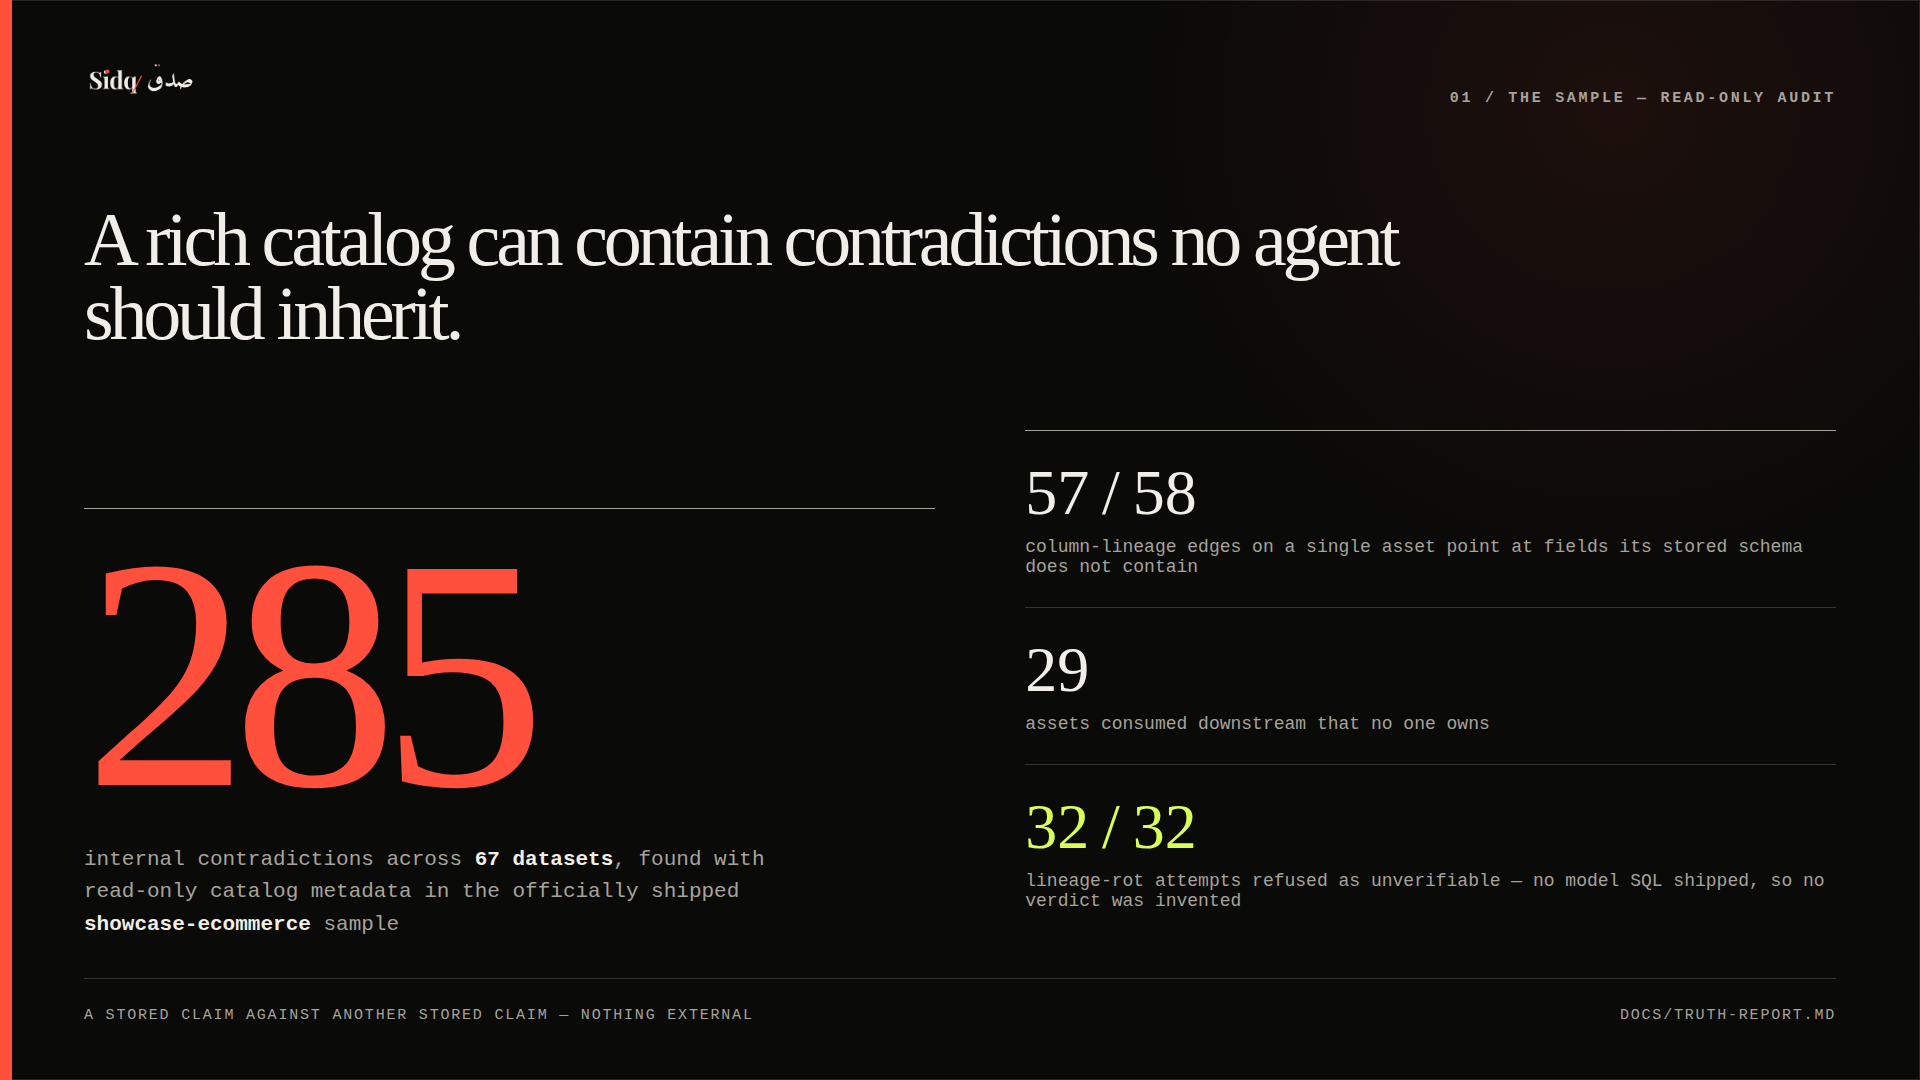
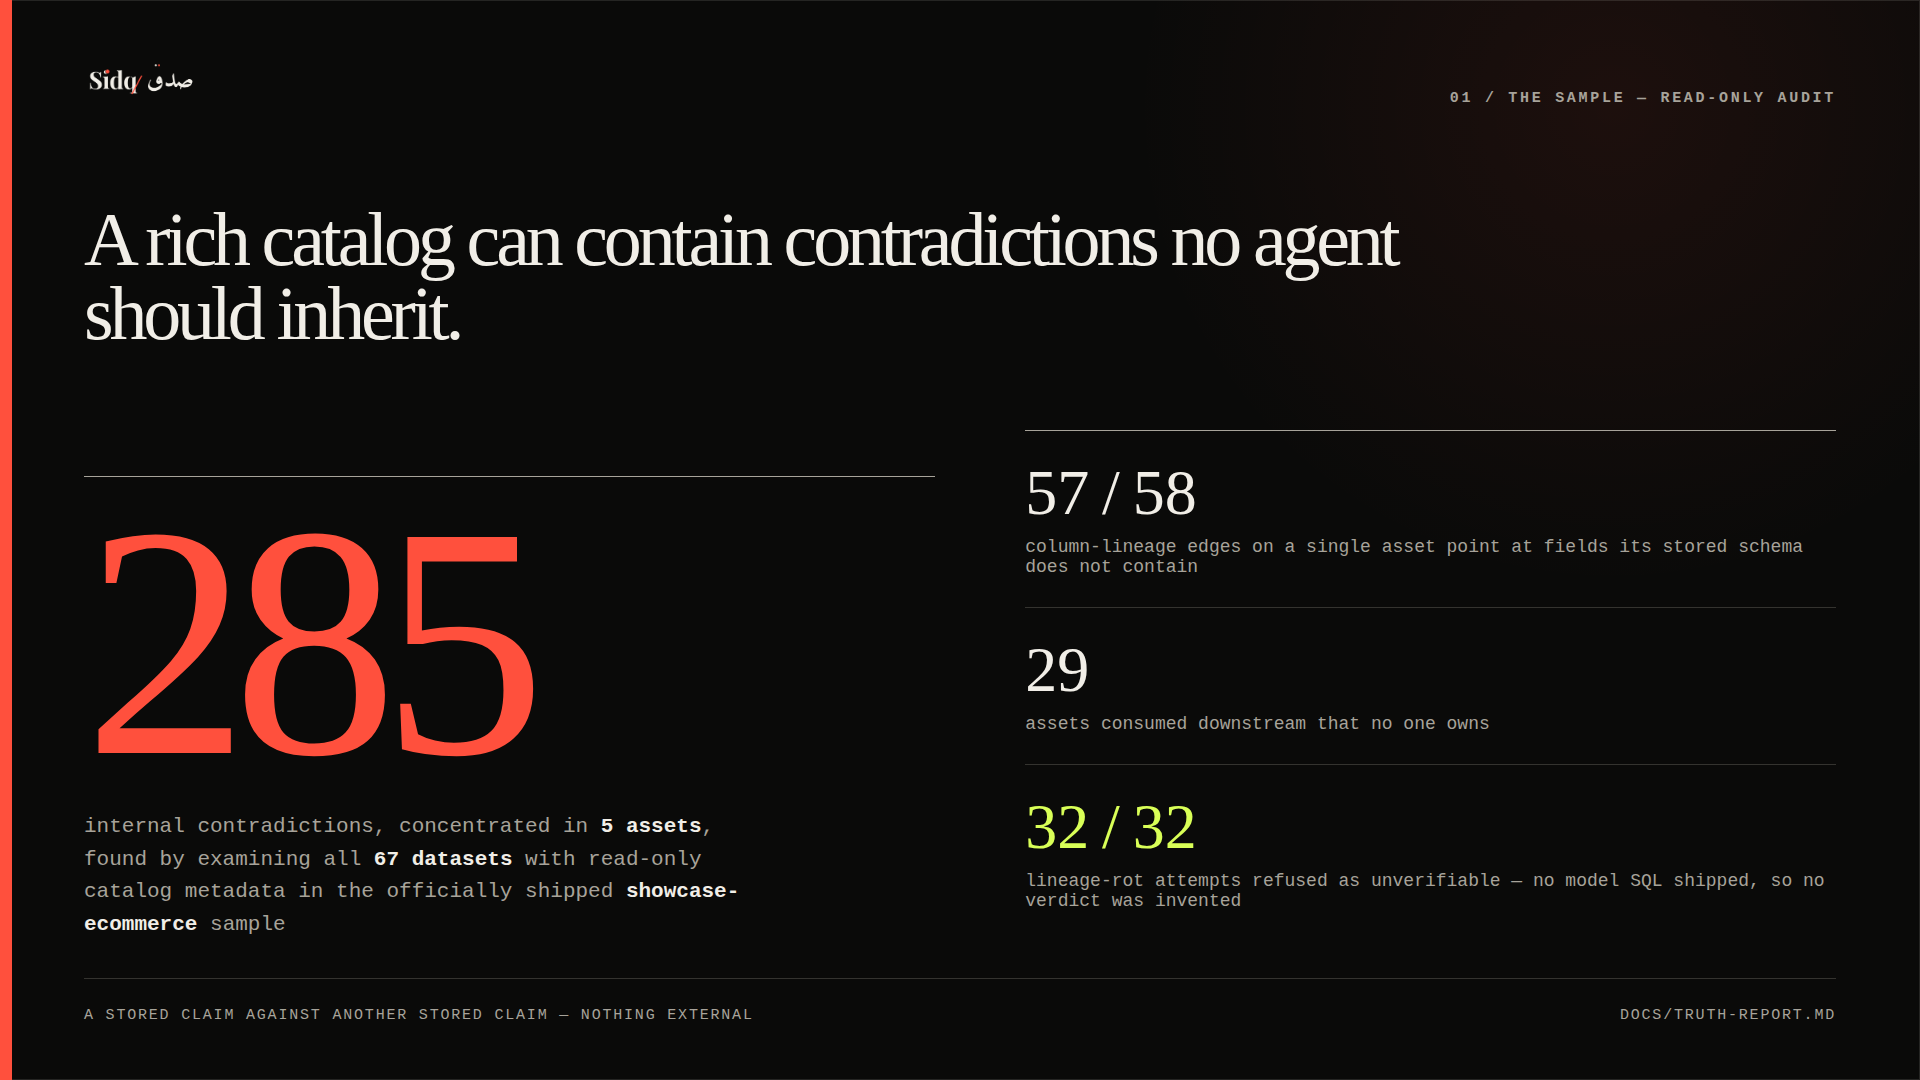
stop the gallery board from saying what the README is forbidden to say
A guard has banned "285 contradictions across 67 datasets" from the README
since the day the phrasing was caught: 67 is the number of datasets examined,
not the number affected, and a reader hears "spread over 67" when the finding
is concentrated in five assets.

The submission gallery said it anyway. Those boards are HTML rendered to PNG
and shown to the same judges, and no check had ever read them, so the sentence
the README could not print was published in a picture instead.

Extending the guard to the boards was not enough on its own. The board read
`across <strong>67 datasets</strong>`, so the banned phrase never appeared
literally in the file and a substring check reported clean on the exact text
it exists to forbid. The guard strips markup before matching, and it was
verified the only way worth trusting: by reintroducing the old wording and
confirming it fails, then restoring it and confirming it passes.

The board is corrected and re-rendered. Published counts move to 1,158.

Changed region(s): [[0.0312, 0.4889, 0.2812, 0.7333], [0.0312, 0.7639, 0.4062, 0.8861]]

diff --git a/docs/gallery/src/02-the-sample.html b/docs/gallery/src/02-the-sample.html
@@ -17,8 +17,9 @@
       <div style="border-top:1px solid var(--dim);padding-top:30px">
         <div style="font-family:var(--display);font-size:330px;line-height:.82;letter-spacing:-.05em;color:var(--signal)">285</div>
         <p style="margin-top:34px;color:var(--dim);font-size:21px;line-height:1.55;max-width:700px">
-          internal contradictions across <strong style="color:var(--paper)">67 datasets</strong>, found with read-only
-          catalog metadata in the officially shipped <strong style="color:var(--paper)">showcase-ecommerce</strong> sample
+          internal contradictions, concentrated in <strong style="color:var(--paper)">5 assets</strong>, found by
+          examining all <strong style="color:var(--paper)">67 datasets</strong> with read-only catalog metadata in the
+          officially shipped <strong style="color:var(--paper)">showcase-ecommerce</strong> sample
         </p>
       </div>
       <div style="display:grid;gap:0;border-top:1px solid var(--dim)">

diff --git a/tests/test_published_claims.py b/tests/test_published_claims.py
@@ -68,6 +68,48 @@ def test_the_headline_contradiction_count_matches_the_evidence() -> None:
     assert "contradictions across 67 datasets" not in text
 
 
+def test_no_judge_facing_surface_conflates_examined_with_affected() -> None:
+    """The conflation was banned in the README, then published in a picture.
+
+    The guard above reads one file. The submission gallery is composed as HTML
+    and rendered to PNG, and those boards say the same numbers to the same
+    judges — so the phrasing the README may not use, a board may not use
+    either. This was not hypothetical: `docs/gallery/src/02-the-sample.html`
+    carried "internal contradictions across 67 datasets" while the README was
+    forbidden from saying it, and a rendered slide is invisible to any check
+    that only reads prose.
+
+    The boards are the reason this scans sources rather than images. Nothing
+    here can read a PNG; keeping the wording honest in the HTML the PNG is
+    rendered from is what keeps the rendered board honest.
+
+    Markup is stripped before matching, and that is the whole difficulty. The
+    offending board read `across <strong>67 datasets</strong>`, so the banned
+    phrase never appeared literally in the file — a substring check against raw
+    HTML reports clean on the exact text it exists to forbid. A reader sees the
+    sentence; only a reader that strips tags sees it too.
+    """
+    surfaces = [
+        *ROOT.glob("*.md"),
+        *(ROOT / "docs").glob("*.md"),
+        *(ROOT / "docs" / "gallery" / "src").glob("*.html"),
+        *(ROOT / "web").glob("*.html"),
+    ]
+    assert surfaces, "no judge-facing surfaces were found to check"
+
+    offenders = []
+    for path in surfaces:
+        raw = path.read_text(encoding="utf-8")
+        rendered = re.sub(r"<[^>]+>", "", raw) if path.suffix == ".html" else raw
+        if "contradictions across 67 datasets" in " ".join(rendered.split()):
+            offenders.append(path.relative_to(ROOT).as_posix())
+
+    assert not offenders, (
+        "67 is the number of datasets examined, not the number affected; "
+        f"these surfaces conflate the two: {offenders}"
+    )
+
+
 def test_the_unowned_asset_count_matches_the_evidence() -> None:
     entry = _summary()["unowned_consumed"]
 

diff --git a/README.md b/README.md
@@ -31,7 +31,7 @@ Every row is one command or one committed artifact. Nothing here is a screenshot
 |---|---|---|
 | **Use of DataHub** | Read → decide → write a receipt through the **official MCP server**, then a *separate process* reads it back and recomputes its own verdict. Verdicts also land in DataHub's own **Quality tab** as native assertions (platform `sidq`). | `make live-loop` · [`examples/06-native-assertion/`](examples/06-native-assertion/) |
 | **Agents as a team** | **Four workers, no coordinator, no IPC** — they divide one catalog purely through the receipts they write, survive a peer killed mid-run, and a fifth process that audited nothing reads the ledger back out of the catalog. | `make swarm-demo` · [`src/sidq/agent/swarm.py`](src/sidq/agent/swarm.py) |
-| **Technical execution** | 1,157 tests, lint, format and types in one gate; the flagship `BLOCK` re-derives **byte-identical** from committed evidence. Published numbers are guarded — a stale one fails the build. | `make check` · `make gate-demo` |
+| **Technical execution** | 1,158 tests, lint, format and types in one gate; the flagship `BLOCK` re-derives **byte-identical** from committed evidence. Published numbers are guarded — a stale one fails the build. | `make check` · `make gate-demo` |
 | **Originality** | The question is not "what is in the catalog" but "is the catalog telling the truth" — proved on DataHub's **own shipped sample**: examining all **67 datasets** found 285 internal contradictions, concentrated in **5 assets**. And against reality: the live source renames a column, the catalog does not, Sidq blocks the context. | [`docs/TRUTH-REPORT.md`](docs/TRUTH-REPORT.md) · `make demo-break` |
 | **Real-world usefulness** | A PII removal is blocked with its lineage path to a Looker dashboard. The repair agent **refuses its own obvious fix** because the engine re-proved it moves the leak instead of closing it. | [`examples/01-blocked-pii-dashboard/`](examples/01-blocked-pii-dashboard/) · `make repair-demo` |
 | **Submission quality** | A 2:56 film with real footage, a live console whose buttons run the real commands, and a read-only judge account on a live DataHub. | [the film](https://www.youtube.com/watch?v=R4GdN36Lsno) · [sidq.mlki.app](https://sidq.mlki.app) · [`docs/QA-RESULTS.md`](docs/QA-RESULTS.md) |
@@ -120,7 +120,7 @@ file on first use, so that first run needs package-index access.
 | # | Command | Needs | What it proves | Takes |
 |---|---|---|---|---|
 | 1 | `make gate-demo` | Python 3.12; package downloads on first use; no DataHub or credentials | The published `BLOCK` verdict is re-derived from the committed graph recording, byte-identical, with the same `policy_hash`. Hand-editing an artifact fails this. | ~2s after bootstrap |
-| 2 | `make check` | Python 3.12; package downloads on first use | 1157 tests, lint, format, types — 1156 passed, 1 optional integration skipped, with 84.04% branch coverage; the same gates CI runs. Runs across all cores. | ~45s after bootstrap |
+| 2 | `make check` | Python 3.12; package downloads on first use | 1158 tests, lint, format, types — 1157 passed, 1 optional integration skipped, with 84.04% branch coverage; the same gates CI runs. Runs across all cores. | ~45s after bootstrap |
 | 3 | `make live-loop` | a running DataHub ([`docs/SETUP.md`](docs/SETUP.md)) | The whole agent loop over the **official MCP server only**: read → decide → write a receipt → a *separate process* reads it back → an asset carrying no receipt returns `NOT VERIFIED`. | ~60s |
 | 4 | `make repair-demo` | the same DataHub | The repair agent proposes a fix from catalog evidence, re-runs the deterministic engine against the catalog that fix *would* create, and shows what it proved and what it refused. | ~40s |
 | 5 | `make swarm-demo` | the same DataHub | **Four agents on one catalog with no coordinator and no IPC.** They divide the work purely through the receipts they write, one is killed mid-run and its unfinished assets are never lost, and a fifth process that audited nothing reads the ledger back out of DataHub. | ~90s |

diff --git a/docs/CLAIMS-MATRIX.md b/docs/CLAIMS-MATRIX.md
@@ -18,7 +18,7 @@ and `origin/main`; deployment is not inferred from a Git commit.
 
 | Public claim | Exact scope and evidence class | Source of truth / artifact | Reproduce | Revision |
 |---|---|---|---|---|
-| The required suite collects 1157 tests: 1156 pass and 1 optional integration skips; total branch coverage is 84.04%. | Host run, Python 3.12.3; guaranteed by the test/coverage gate for this revision. The remaining skip is the unavailable local Ollama model integration. | `pyproject.toml`, `Makefile`, [`QA-RESULTS.md`](QA-RESULTS.md) | `make check`; for reasons: `.venv/bin/pytest -q -rs --no-cov` | Re-measured 2026-08-09 on the working revision; the gate re-runs it on every `make check` |
+| The required suite collects 1158 tests: 1157 pass and 1 optional integration skips; total branch coverage is 84.04%. | Host run, Python 3.12.3; guaranteed by the test/coverage gate for this revision. The remaining skip is the unavailable local Ollama model integration. | `pyproject.toml`, `Makefile`, [`QA-RESULTS.md`](QA-RESULTS.md) | `make check`; for reasons: `.venv/bin/pytest -q -rs --no-cov` | Re-measured 2026-08-09 on the working revision; the gate re-runs it on every `make check` |
[1 lines of base64/hex data omitted]
 | The example records 16 downstream consumers and one path with 8 nodes / 7 hops. | Fixture-backed column lineage through the BI field, then entity-level chart/dashboard hops. The count alone does not block. | [`verdict.json`](../examples/01-blocked-pii-dashboard/verdict.json) | `jq '.findings[] | select(.rule_id=="critical_downstream") | .evidence[0].detail | {downstream_count,paths}' examples/01-blocked-pii-dashboard/verdict.json` | Same fixture/policy revision above |
 | A written Sidq receipt can be mirrored into DataHub's own native Assertion surface through DataHub's documented GraphQL custom-assertion API, from the environment the runbook installs, with zero extra dependencies. | Live run against a DataHub OSS quickstart (GMS v1.5.0.6) on 2026-08-09: `upsertCustomAssertion` accepted Sidq's deterministic URN verbatim, `reportAssertionResult` recorded the run, and the same GraphQL query DataHub's UI issues returned one `CUSTOM` assertion, `EXTERNAL` source, platform `sidq`, `succeeded: 1`, seven `sidq.*` native results. Re-emitting returned `created=0, existing=1`, and DataHub deduplicates reports at the same `timestampMillis` (measured: two identical reports, one event, `runId` derived from the timestamp). The full CLI ran end to end from `.venv`: `sidq audit --via-mcp --budget 3 --write-receipts --write-assertions` → `receipts written 2 of 2`; a later run reported `4 left deleted`, refusing to resurrect assertions the operator had soft-deleted even though their rules fired again. The Quality tab was captured in a logged-in browser. **Not claimed:** rendering on DataHub Cloud or any other release — one OSS quickstart at one version. An earlier revision used the `acryl-datahub` SDK and could not run from this venv; the git history records that boundary and its fall. | [`examples/06-native-assertion/`](../examples/06-native-assertion/) | Live DataHub: `export DATAHUB_GMS_URL DATAHUB_GMS_TOKEN`, then `.venv/bin/python examples/06-native-assertion/mirror_assertion.py` twice and `examples/06-native-assertion/read_back.sh`, comparing structurally with the committed response | Measured 2026-08-09 on the working revision |

diff --git a/ARCHITECTURE.md b/ARCHITECTURE.md
@@ -82,7 +82,7 @@ trust.
 | **Agents that do real work** | `sidq audit` picks its own targets on a catalog it has never seen: it ranks by how much damage a lie would do, spends an explicit budget worst-first, and lets what it finds reorder what it looks at next — a contagious finding promotes the neighbour. `sidq swarm` runs independent workers that divide the same catalog with no coordinator. `sidq repair` proposes only fixes the deterministic engine re-proves against the catalog the fix *would* create, and refuses the rest with reasons. | `make converge-demo` · `make swarm-demo` · `make repair-demo` · [`examples/05`](examples/05-agent-that-stops/) |
 | **Depth of DataHub use, incl. write-back** | The entire loop runs on the official `mcp-server-datahub` and nothing else: read with `search`/`get_entities`/`list_schema_fields`/`get_lineage`, decide, write the Receipt through the official mutation tools, then **a separate process reads it back** and recomputes whether it still holds. Sidq also ships its own MCP server with exactly three read-only tools, and a Skill for the DataHub skills ecosystem. | `make live-loop` · [`docs/MCP-CONTRACT.md`](docs/MCP-CONTRACT.md) · [`skills/datahub-verify`](skills/datahub-verify/) |
 | **The catalog as shared state** | Receipts written into DataHub let a bounded audit resume where any other instance stopped — no sidecar database, no daemon, no lock. Coverage converges run over run under a budget that never changes. A recorded refusal counts as covered but authorizes nothing; the two are separate fields, not one boolean. | `make converge-demo` · [`docs/RECEIPT-SPEC.md`](docs/RECEIPT-SPEC.md#three-questions-three-fields) |
-| **Technical execution** | 1,157 tests at 84.04% branch coverage, including property tests and a hostile-catalog suite that feeds the reader malformed, misdirected, and invented-verdict payloads. The flagship verdict is byte-identical on replay. Published artifacts are generated and gate-checked, so a stale number fails the build rather than reaching a judge. | `make check` · `make gate-demo` · `make regen-check` |
+| **Technical execution** | 1,158 tests at 84.04% branch coverage, including property tests and a hostile-catalog suite that feeds the reader malformed, misdirected, and invented-verdict payloads. The flagship verdict is byte-identical on replay. Published artifacts are generated and gate-checked, so a stale number fails the build rather than reaching a judge. | `make check` · `make gate-demo` · `make regen-check` |
 | **Originality** | Six products analyse the *code* in a PR. This asks whether the *catalog* is telling the truth — and proves the question is real on the sponsor's own shipped sample rather than on an example we built to fail. No model participates in a blocking decision; advisory findings can only ever warn, and the boundary is in the output schema. | [`docs/TRUTH-REPORT.md`](docs/TRUTH-REPORT.md) · [`examples/03`](examples/03-catalog-truth-report/) |
 | **Real-world usefulness** | A merge gate and an agent guardrail from one engine. The refusal a platform team actually needs is not "this SQL is invalid" but "this change breaks a dashboard owned by another team", and that is the committed example. | [`examples/01`](examples/01-blocked-pii-dashboard/) · sealed PRs [#1](https://github.com/NexuChat/sidq/pull/1)–[#4](https://github.com/NexuChat/sidq/pull/4) |
 | **Submission quality** | Four sealed PR threads a judge can read without installing anything, five worked examples, and a claims matrix that gives every public number its scope, its source of truth, and the command that reproduces it. Numbers are asserted against committed evidence by the test suite. | [`docs/CLAIMS-MATRIX.md`](docs/CLAIMS-MATRIX.md) · `tests/test_published_claims.py` |

diff --git a/docs/QA-RESULTS.md b/docs/QA-RESULTS.md
@@ -79,7 +79,7 @@ re-measured and the 2026-08-02 session remains its record.
 
 ## Automated gates
 
-- Host run of 2026-08-09: 1157 collected, 1156 passed, and 1 optional
+- Host run of 2026-08-09: 1158 collected, 1157 passed, and 1 optional
   integration test skipped because the Ollama model `ibm/granite4:1b-q4_1` is
   not installed. The assertion mirror's earlier DataHub-SDK skips are gone
   with the SDK itself: the mirror now speaks DataHub's documented GraphQL API

diff --git a/docs/SECURITY-AUDIT.md b/docs/SECURITY-AUDIT.md
@@ -72,7 +72,7 @@ make check
   Ruff check: pass
   Ruff format --check: pass
   mypy src/: pass
-  pytest: 1157 collected, 1156 passed, 1 skipped   # re-run 2026-08-09
+  pytest: 1158 collected, 1157 passed, 1 skipped   # re-run 2026-08-09
   branch coverage: 84.04% (minimum 80%)
 
 uv audit --locked --no-cache
